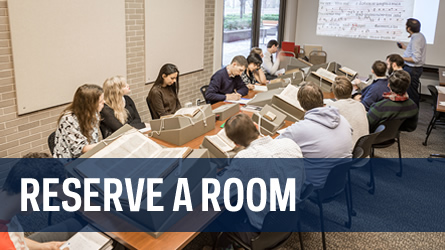
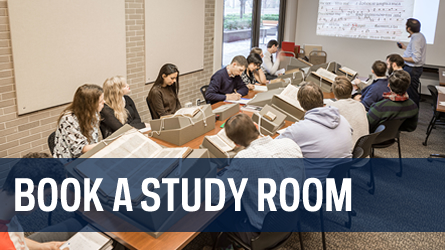
Updates to Services Landing page as well as moving some things around in the Services Menu

Changed region(s): [[0.0292, 0.7, 0.7888, 0.868]]

diff --git a/src/components/LandingPages/Services/index.js b/src/components/LandingPages/Services/index.js
@@ -12,36 +12,160 @@ const Services = () => {
       <hr />
  
 
-      <div className='row'>
+      <div className='row services-landing'>
         <div className='col-md-4 col-xs-12'>
-          <h3>Featured Services</h3>
+          {/*<h3>Featured Services</h3>
 
-          <p><Link to='/room-reservations/'><img src={ReserveRoom} /></Link></p>
+          <p><Link to='/room-reservations/'><img src={ReserveRoom} /></Link></p>*/}
 
-        </div>
-        <div className='col-md-4 col-md-offset-1 col-xs-12'>
           <h3>Borrow</h3>
 
-          <p><Link to='/borrow-renew-request/'>Borrow, Renew, Request Policies</Link> </p>
+          <p><Link to='/borrow-renew-request/'>Borrow, Renew, Request Policies</Link> 
+          <span>Who can check out materials, loan periods for different types of materials and users</span>
+          </p>
 
-          <p><Link to='https://nd.illiad.oclc.org/illiad/IND/illiad.dll'>Interlibrary Loan &amp; Document Delivery</Link> </p>
+          <p><Link to='https://nd.illiad.oclc.org/illiad/IND/illiad.dll'>Interlibrary Loan</Link> 
+          <span>Notre Dame faculty, students and staff may request articles, books, media, and more from other libraries when the Hesburgh Libraries do not have what you need</span>
+          </p>
 
-          <p><Link to='/courses'>Course Reserves</Link> </p>
+          <p><Link to='https://nd.illiad.oclc.org/illiad/IND/illiad.dll'>Document Delivery</Link> 
+          <span>Notre Dame faculty, students and staff may request articles, books and book chapters from the Hesburgh Libraries' collections</span>
+          </p>
 
-          <p><Link to='/technology-lending/'>Technology Lending Policies</Link> </p>
+          <p><Link to='/dvds'>DVDs</Link> 
+          <span></span>
+          </p>
 
-          <p>&nbsp;</p>
+          <h3>Request and Problem Report Forms</h3>
+          <h4>Buy, Hold, or Find</h4>
+          <ul>
+            <li><Link to='#'>Missing Book Search Requests</Link> </li>
+            <li><Link to='#'>Recommend a Purchase</Link> </li>
+            <li><Link to='#'>Request an In Process or On Order Item</Link> </li>
+          </ul>
+          <h4>Problem Report Forms</h4>
+          <ul>
+            <li><Link to='#'>Catalog Record Problems</Link> </li>
+            <li><Link to='#'>General Problem</Link> </li>
+            <li><Link to='#'>Interlibrary Loan Problems</Link> </li>
+            <li><Link to='#'>Online Resource Problem</Link> </li>
+            <li><Link to='#'>Reserves Problems</Link> </li>
+          </ul>
 
+          <h3>Spaces</h3>
+
+          <p><Link to='/graduate-student-carrels'>Graduate Student Carrels</Link>
+          <span>Available to graduate students in the College of Arts & Letters</span></p>
+          <p><Link to='http://hr.nd.edu/work-life-balance/lactation-rooms'>Lactation Room</Link> 
+          <span>A lactation room, located on the fifth floor of Hesburgh, is available for faculty, staff and graduate students. Contact HR for more information or <Link to='http://hr.nd.edu/work-life-balance/lactation-rooms/'>request access</Link>.</span> </p>
+          <p><Link to='#'>Meeting Space and Group Study Room Reservations</Link>
+          <span>Reserve spaces in Libraries facilities</span> </p>
+          <p><Link to='/writing-center'>Writing Center</Link></p> 
+
+          <h3>Specialty Expertise and Consultation Areas</h3>
+
+          <p><Link to='http://libguides.library.nd.edu/datamanagement'>Copyright Consulting</Link> 
+                    <span>Submit a question to the copyright team.</span></p>
+          <p><Link to='http://library.nd.edu/cds/expertise/Analysis.shtml'>Data Management Consulting </Link>
+                    <span>Contact us for assistance with data management plans, and more.</span></p>
+          <p><Link to='http://library.nd.edu/cds/expertise/Analysis.shtml'>Data Use & Analysis </Link>
+                    <span>Request help in formulating an analysis, identifying appropriate data sets, or preparing and working with data.</span></p>
+          <p>Digital Humanities 
+                    <span></span></p>
+          <p><Link to='http://library.nd.edu/cds/expertise/GIS.shtml'>Geographic Information Systems </Link>
+                   <span> Request assistance with the generation of images from spatial data and spatial data analysis.</span></p>
+          <p><Link to='http://libguides.library.nd.edu/latex'>LaTeX Consulting</Link> 
+                    <span>Request help with using LaTeX for document typesetting.</span></p>
+          <p><Link to='/math-tutoring'>Math Tutoring</Link> 
+                    <span>Tutoring can be scheduled for an individual or a small group for half-hour sessions.</span></p>
+          <p><Link to='http://library.nd.edu/cds/expertise/TextMining.shtml'>Text Mining & Analysis</Link>
+                    <span>The Center for Digital Scholarship supports the analysis of both structured and unstructured texts.</span></p>
+
+
+
+          
+        </div>
+        <div className='col-md-4 col-xs-12'>
           <h3>Teaching and Consulting</h3>
 
-          <p><Link to='/request-library-research-instruction/'>Library Research Instruction</Link> </p>
+          <p><Link to='/courses'>Course Reserves</Link>
+          <span>For students and faculty to access reserve items or place items on reserve</span> </p>
+          <p>Consultations (Meet with a Librarian) 
+                    <span>Make an appointment to meet with a librarian</span></p>
+          <p>Request Instruction 
+                    <span>Request library instruction for your class sessions</span></p>
+          <p><Link to='http://libguides.library.nd.edu/dissertation-camp'>Research and Writing Camps</Link>
+                              <span>The Libraries offer a variety of research and writing camps, such as thesis and dissertation camps, research and statistical tools camps, and custom boot camps for groups by request.</span></p>          
+          <p><Link to='http://nd.libcal.com/calendar/allworkshops/?cid=447&t=m&d=0000-00-00&cal%5B%5D=447'>Workshops</Link> 
+                    <span>Library workshops are available on a variety of topics. Sign up for sessions, review handouts from past sessions, or request a custom session.</span></p>
 
-          <p><Link to='/workshops/'>Workshops</Link> </p>
 
-          <p><Link to='/thesis-dissertation-camps/'>Thesis and Dissertation Camps</Link> </p>
+          <h3>Technology and Technology Lending</h3>
+          <p><Link to='http://library.nd.edu/cds/print/'>3D Modeling and Printing</Link> 
+          <span>Submit a 3D print job or request assistance with finding or designing a 3D model</span></p>
+          <p><Link to='/copy-print-scan'>Copying, Printing, and Scanning</Link>
+          <span>Locate computers and other technology within Libraries facilities</span></p>
+          <p>Listening Stations</p>
+          <p><Link to='http://libguides.library.nd.edu/onebutton'>One Button Studio</Link> 
+          <span>Reserve the One Button Studio video recording space</span></p>
+          <p><Link to='https://oit.nd.edu/help-desk/'>OIT Help Desk Outpost </Link>
+          <span>Located in the Hesburgh Library near the Ask Us Desk on the 1st floor</span></p>
+          <p><Link to='http://libguides.library.nd.edu/soundstudio'>Sound Studio </Link>
+          <span>Reserve the Sound Studio audio recording space</span></p>
+          <p><Link to='http://library.nd.edu/cds/technology/#Software'>Specialty Software</Link> 
+          <span>View special software titles available via the Libraries</span></p>
+          <p><Link to='http://nd.libcal.com/reserve/equipment'>Technology and Miscellaneous Equipment Lending</Link>
+          <span>Reserve laptops, cameras, headphones, accessories, and more</span> </p>
+          <p><Link to='http://libguides.library.nd.edu/transcriptionstation'>Transcription Station </Link>
+          <span>Make transcriptions of audio or video files more easily with our transcription pedal</span></p>
 
-          <p><Link to='/consultation-teaching/'>Consultations (Meet with a Librarian)</Link> </p>
 
+         
+
+
+              
+
+
+        </div>
+        <div className='col-md-4 col-xs-12'>
+
+ <h3>Research and Scholarship Tools</h3>
+
+          <p><Link to='http://libguides.library.nd.edu/citemanage/home'>Citation Managers</Link>
+          <span>Citation Management software allows you to create and track references (aka citations) and to create bibliographies or reference lists formatted in the appropriate style, such as APA, MLA, Chicago or Turabian.</span></p>
+          <p><Link to='https://curate.nd.edu/'>CurateND</Link> 
+          <span>CurateND is the campus’ institutional repository, enabling Notre Dame faculty, students, and staff to share and preserve their research and scholarship </span>
+          </p>
+          <p><Link to='http://collections.library.nd.edu/'>DEC</Link>
+          <span>View digital exhibits and collections online</span></p>
+          <p>DMPTool
+          <span>DMPTool is a flexible online tool that guides users through each step of creating a compliant data management plan for specific funding agencies.</span> </p>
+          <p>Open Science Framework
+          <span>The Open Science Framework (OSF) provides free and open source project management support for researchers across the entire research lifecycle.</span></p>
+          <p>OrcID
+          <span>ORCID provides a persistent digital identifier that distinguishes you from every other researcher and, through integration in key research workflows such as manuscript and grant submission, supports automated linkages between you and your professional activities ensuring that your work is recognized.</span></p>
+          <p><Link to='https://remix.nd.edu/'>Remix Digital Resource Portal</Link>
+          <span>Remix assembles a broad variety of tools in one place to help you find, mix, and create new digital media and visual material</span></p>
+          <p>Proxy Bookmarklet
+          <span>Access library resources while off-campus</span></p>
+
+
+ <h3>Miscellaneous Services</h3>
+
+          <p>Document Shredding 
+          <span>Hesburgh Library has two (2) 32 gallon locked bins for you to use free of charge to put documents that are of a sensitive nature</span></p>
+<p>Lokmobiles 
+<span>“Desks on wheels” are available to graduate students (priority) and seniors working on a thesis</span></p>
+<p>Lost & Found 
+<span>Please contact Library Monitors at (574) 631-6350</span></p>
+<p>Notary Public
+<span>The Hesburgh Libraries has a licensed Notary Public on staff who will provide a free notary service to university students, faculty, and staff</span></p>
+<p>Science Equipment for Teachers</p>
+<p>Students with Disabilities </p>
+<p>USGS Map Printing
+<span>The U.S. Geological Survey map printing service is provided by the Frontline Services unit in support of the curriculum and research needs of University of Notre Dame students, faculty, staff and the local community, as guaranteed by public law (Title 44 United States Code)</span></p>
+
+    
         </div>
       </div>
     </LandingPage>

diff --git a/src/components/Navigation/data/services.js b/src/components/Navigation/data/services.js
@@ -3,24 +3,35 @@ import ScanImage from '../../../static/images/scan.jpg'
 
 export const servicesData = [
   {
-    title: 'Featured Services',
-    classes: 'col-md-offset-2 col-md-2',
+    title: 'Technology and Spaces',
+    classes: 'col-md-offset-2 col-md-3',
     items: [
-      {
-        title: 'Reserve a Room',
-        url: '/room-reservations',
-        image: RoomImage,
-      },
+      
       {
         title: 'Copy, Print, Scan',
         url: '/copy-print-scan',
-        image: ScanImage,
+
+      },
+      {
+        title: 'Technology Lending',
+        url: '/technology-lending',
+
+      },
+      {
+        title: 'Book a study or multimedia room',
+        url: 'http://nd.libcal.com/#s-lc-box-2749-container-tab1',
+
+      },
+      {
+        title: 'Reserve a meeting or event space',
+        url: 'https://alpha.library.nd.edu/room-reservations',
+
       },
     ],
   },
   {
-    title: 'Borrow',
-    classes: 'col-md-3',
+    title: 'Find, Borrow, Request',
+    classes: 'col-md-2',
     items: [
       {
         title: 'Borrow, Renew, Request Policies',
@@ -35,8 +46,8 @@ export const servicesData = [
         url: '/courses',
       },
       {
-        title: 'Technology Lending Policies',
-        url: '/technology-lending',
+        title: 'ND Catalog',
+        url: 'http://onesearch.library.nd.edu/primo_library/libweb/action/search.do',
       },
 
     ],

diff --git a/src/static/css/global.css b/src/static/css/global.css
@@ -1583,7 +1583,7 @@ hr {
 @supports (display: grid) and (not (display: -ms-grid)) {
   .p-resources {
     display: grid;
-    grid-template-columns: repeat(3, 1fr);
+    grid-template-columns: repeat(2, 1fr);
     grid-template-rows: auto auto auto;
     grid-auto-flow: column;
   }
@@ -1620,13 +1620,13 @@ hr {
   display: flex;
   list-style: none;
   flex-wrap: wrap;
-  justify-content: space-between;
+  justify-content: flex-start;
 }
 
 .p-services li, .p-pages li {
   width: 31%;
   list-style: none;
-  margin: 0 0 2em 0;
+  margin: 0 1em 2em 0;
   padding: 0;
 }
 
@@ -1638,7 +1638,7 @@ hr {
 
 }
 
-.p-services .frame, .p-pages .frame {
+.p-services .frame, .p-pages .frame, .building .frame {
 
   border: solid 2px #fff;
   -webkit-box-shadow: 0px 0px 4px 0px rgba(0,0,0,0.25);
@@ -1648,6 +1648,15 @@ hr {
 }
 
 .p-services .frame img, .p-pages .frame img  {
+  width: 100%;
+  display: block;
+}
+
+.services-landing p span {
+  display: block;
+}
+
+.building img {
   width: 100%;
   display: block;
 }

diff --git a/src/components/LandingPages/Research/index.js b/src/components/LandingPages/Research/index.js
@@ -76,6 +76,14 @@ const Research = () => {
           <p><Link to='http://archives.nd.edu/findaids/ead/xml/'>Archives Collections</Link></p>
 
           <p><Link to='http://rarebooks.library.nd.edu/exhibits/index.shtml'>Exhibits</Link></p>
+
+          <h3>Search Tools</h3>
+
+          <p><Link to='http://library.nd.edu/utilities/search/ndu/onesearch'>OneSearch</Link></p>
+<p><Link to='http://library.nd.edu/utilities/search/ndu/nd_campus'>ND Catalog</Link></p>
+<p><Link to='https://ejl.library.nd.edu/'>EJournal Locator</Link></p>
+<p><Link to='https://xerxes.library.nd.edu/quicksearch/databases/subject/general-multidisciplinary'>Article QuickSearch</Link></p>
+
         </div>
 
       </div>

diff --git a/src/components/Contentful/Floor/presenter.js b/src/components/Contentful/Floor/presenter.js
@@ -15,8 +15,10 @@ const FloorPresenter = ({ cfFloorEntry }) => (
     <SearchProgramaticSet open={false} />
     <h2>{cfFloorEntry.fields.title}</h2>
     <LibMarkdown>{cfFloorEntry.fields.shortDescription}</LibMarkdown>
-    <Image cfImage={cfFloorEntry.fields.image} />
-    <Building cfBuildingEntry={cfFloorEntry.fields.building} />
+    <div className='row'>
+    <div className='col-md-9 floor'><Image cfImage={cfFloorEntry.fields.image} /></div>
+    <div className='col-md-3 building'><Building cfBuildingEntry={cfFloorEntry.fields.building} /></div>
+    </div>
   </div>
 )
 

diff --git a/src/components/Contentful/Building/index.js b/src/components/Contentful/Building/index.js
@@ -11,9 +11,9 @@ const BuildingPresenter = ({ cfBuildingEntry }) => (
   <div key={`ContentfulBuilding_${cfBuildingEntry.sys.id}`} >
     <PageTitle title={cfBuildingEntry.fields.title} />
     <SearchProgramaticSet open={false} />
-    <h2>{ cfBuildingEntry.fields.title }</h2>
+    <h3>{ cfBuildingEntry.fields.title }</h3>
     <Image cfImage={cfBuildingEntry.fields.image} />
-    <Link to={cfBuildingEntry.fields.mapLink}>Map</Link>
+    <div className='contact'><address><Link to={cfBuildingEntry.fields.mapLink} className='map'>Map</Link></address></div>
   </div>
 )
 

diff --git a/src/components/Hours/Current/collapsed_presenter.js b/src/components/Hours/Current/collapsed_presenter.js
@@ -8,7 +8,7 @@ const Presenter = (hoursEntry, isOpen, expandHandler, children) => {
     <div className='service-point'>
       <h4>
         <div className='location'>{hoursEntry.name}</div>
-        <div className='today'>{'Today: ' + (isOpen ? hoursEntry.today.display : 'Closed')}</div>
+        <div className='today'>{(isOpen ? 'Today: ' +  hoursEntry.today.display : 'Closed')}</div>
         <div className="ecarrow"><span className='expand' onClick={expandHandler}>Expand</span></div>
       </h4>
       

diff --git a/src/components/Hours/Page/style.css b/src/components/Hours/Page/style.css
@@ -75,8 +75,24 @@
 }
 
 @media screen and (max-width: 800px) {
-	.service-point-list  {
-		grid-template-columns: 1fr;
+	.location {
+		padding-left: 10px;
+		grid-column-start: 1;
+		grid-column-end: 3;
+	}
+
+	.service-point h4 {
+		padding-left: 0;
+		padding-right: 0;
+	}
+
+	.today {
+		grid-row-start: 2;
+		grid-column-start: 1;
+		grid-column-end: 4;
+	}
+	.ecarrow {
+		margin-right: 10px;
 	}
 
 }

diff --git a/src/components/SearchDrawer/AdvancedSearch/style.css b/src/components/SearchDrawer/AdvancedSearch/style.css
@@ -29,7 +29,7 @@
     padding:0 0 2px;
     position:absolute;
     pointer-events:none;
-    z-index: 400;
+
 }
 
 #advanced-search option {
